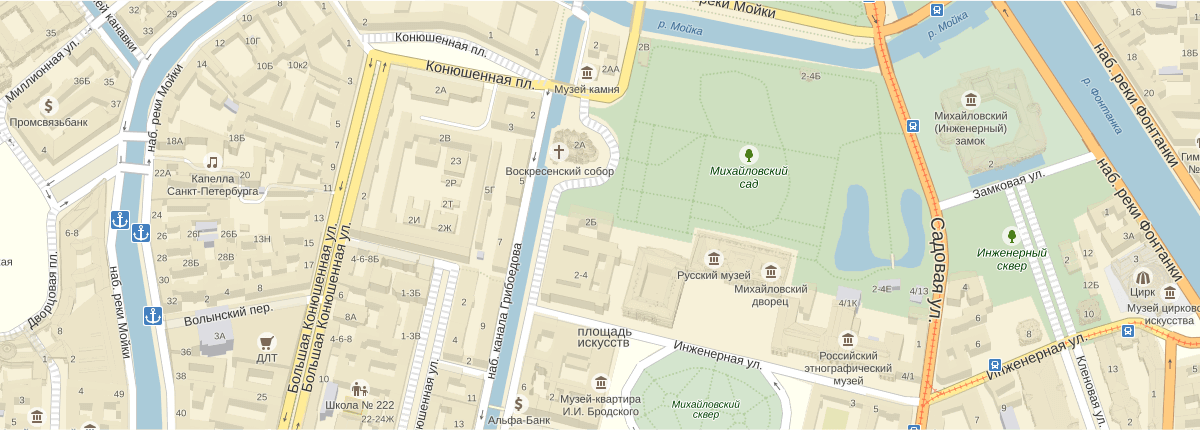
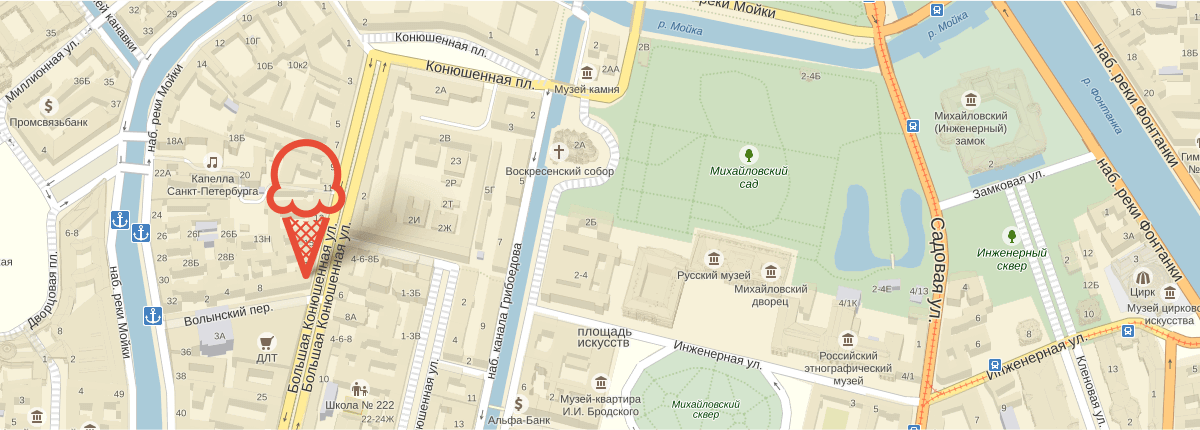
Добавляет разметку Главной страницы

Changed region(s): [[0.2158, 0.3023, 0.37, 0.6651], [0.74, 0.9977, 0.7708, 1.0]]

diff --git a/index.html b/index.html
@@ -1,12 +1,251 @@
 <!DOCTYPE html>
 <html lang="ru">
-  <head>
-    <meta charset="utf-8">
-    <title>HTML Academy: Глейси</title>
-  </head>
-  <body>
 
-    <p>Репозиторий создан для обучения на профессиональном онлайн‑курсе «<a href="https://htmlacademy.ru/intensive/htmlcss">HTML и CSS, уровень 1</a>».</p>
+<head>
+  <meta charset="utf-8">
+  <title>Gllacy - магазин мороженого</title>
+</head>
 
-  </body>
+<body>
+  <header>
+    <nav>
+      <a>
+        <img src="img/logo.svg" width="154" height="64" alt="Логотип интернет-магазина Gllacy">
+      </a>
+
+      <ul>
+        <li>
+          <a href="#!">Каталог</a>
+          <ul>
+            <li><a href="#!">Новинки</a></li>
+            <li><a href="catalog.html">Сливочное</a></li>
+            <li><a href="#!">Щербеты</a></li>
+            <li><a href="#!">Фруктовый лед</a></li>
+            <li><a href="#!">Мелорин</a></li>
+          </ul>
+        </li>
+        <li><a href="#!">Доставка и оплата</a></li>
+        <li><a href="#!">О Компании</a></li>
+      </ul>
+
+      <button>Поиск</button>
+      <form action="https://echo.htmlacademy.ru" method="get">
+        <label>
+          Поиск по сайту
+          <input type="search" name="search" placeholder="Крем-брюле">
+          <button type="submit">Найти</button>
+        </label>
+      </form>
+
+      <button>Вход</button>
+      <form action="https://echo.htmlacademy.ru" method="post">
+        <label>
+          Email
+          <input type="email" name="user-email" required>
+        </label>
+        <label>
+          Пароль
+          <input type="password" name="user-password" required>
+        </label>
+        <button type="submit">Войти</button>
+        <p>
+          <a href="#!">Забыли пароль?</a>
+          <a href="#!">Новая регистрация</a>
+        </p>
+      </form>
+
+      <button>Пусто</button>
+    </nav>
+  </header>
+
+  <main>
+    <h1>Gllacy - магазин мороженого</h1>
+
+    <section>
+      <h2>Популярное мороженое</h2>
+      <ul>
+        <li>
+          <h3>Крем-брюле и пломбир с малиновым джемом</h3>
+          <a href="#!">Давайте оба!</a>
+        </li>
+        <li>
+          <h3>Шоколадный пломбир и лимонный сорбет</h3>
+          <a href="#!">Давайте оба!</a>
+        </li>
+        <li>
+          <h3>Пломбир с помадкой и клубничный щербет</h3>
+          <a href="#!">Давайте оба!</a>
+        </li>
+      </ul>
+    </section>
+
+    <section>
+      <h2>Акции магазина</h2>
+      <article>
+        <h3>Малинка даром!</h3>
+        <p>При покупке 2 кг любого фруктового мороженого, добавим в ваш заказ банку малинового варенья бесплатно.</p>
+        <a href="#!">Хочу варенье!</a>
+      </article>
+      <article>
+        <h3>Шоколадки даром!</h3>
+        <p>При покупке 2 кг пломбира, добавим в ваш заказ упаковку вкуснейшей шоколадной присыпки совершенно бесплатно.</p>
+        <a href="#!">Хочу шоколадки!</a>
+      </article>
+    </section>
+
+    <section>
+      <h2>Хит продаж!</h2>
+      <ul>
+        <li>
+          <article>
+            <a href="#!">
+              <h3>Сливочное с апельсиновым джемом и цитрусовой стружкой</h3>
+            </a>
+            <p>
+              <img src="img/product-1.png" width="267" height="267" alt="Бело-желтое мороженое">
+            </p>
+            <p>
+              <span>310 ₽</span>
+              <span>/кг</span>
+            </p>
+            <button>Быстрый просмотр</button>
+          </article>
+        </li>
+        <li>
+          <article>
+            <a href="#!">
+              <h3>Сливочно-кофейное с кусочками шоколада</h3>
+            </a>
+            <p>
+              <img src="img/product-2.png" width="267" height="267" alt="Коричневое мороженое с шоколадной присыпкой">
+            </p>
+            <p>
+              <span>380 ₽</span>
+              <span>/кг</span>
+            </p>
+            <button>Быстрый просмотр</button>
+          </article>
+        </li>
+        <li>
+          <article>
+            <a href="#!">
+              <h3>Сливочно-клубничное с присыпкой из белого шоколада</h3>
+            </a>
+            <p>
+              <img src="img/product-3.png" width="267" height="267" alt="Розовое мороженое с присыпкой из сердечек">
+            </p>
+            <p>
+              <span>355 ₽</span>
+              <span>/кг</span>
+            </p>
+            <button>Быстрый просмотр</button>
+          </article>
+        </li>
+        <li>
+          <article>
+            <a href="#!">
+              <h3>Сливочное крем-брюле с карамельной подливкой</h3>
+            </a>
+            <p>
+              <img src="img/product-4.png" width="267" height="267" alt="Бежевое мороженое с карамелью">
+            </p>
+            <p>
+              <span>415 ₽</span>
+              <span>/кг</span>
+            </p>
+            <button>Быстрый просмотр</button>
+          </article>
+        </li>
+      </ul>
+    </section>
+
+    <section>
+      <h2>Магазин Глэйси — это онлайн- и офлайн-магазин по продаже мороженого собственного производства на развес</h2>
+      <ul>
+        <li>
+          <p>Все наше мороженое изготавливается на собственном производстве, с использованием современного оборудования и проверенных временем технологий.</p>
+        </li>
+        <li>
+          <p>Закупка ингредиентов  производится только у проверенных фермерских хозяйств и компаний, с которыми нас связывает долговременное сотрудничество.</p>
+        </li>
+        <li>
+          <p>Для приготовления мороженого используются настоящие сливки и молоко высочайшего качества. Все дополнительные ингредиенты и добавки произведены из натурального, экологически чистого сырья.</p>
+        </li>
+        <li>
+          <p>Доставка нашего мороженого до заказчиков осуществляется в специальном термопаке, который не дает мороженому растаять в пути и позволяет сохранить превосходный вкус.</p>
+        </li>
+      </ul>
+    </section>
+
+    <section>
+      <h2>Блог про наш магазин</h2>
+      <article>
+        <a href="#!">
+          <h3>Новое в нашем блоге</h3>
+          <p>10 способов сервировки фруктовых щербетов к столу</p>
+        </a>
+      </article>
+      <article>
+        <h3>Подписка на рассылку</h3>
+        <form action="https://echo.htmlacademy.ru" method="post">
+          <p>Подпишитесь на нашу сладкую рассылку и будете всегда в курсе всего самого вкусного, что у нас происходит. Обещаем не спамить и не слать всякой ненужной ерунды. Честно =)</p>
+          <label>
+            Ваш email
+            <input type="email" name="mailing-email" placeholder="email@example.com" required>
+          </label>
+          <button type="submit">Отправить</button>
+        </form>
+      </article>
+    </section>
+
+    <section>
+      <h2>Контактные данные</h2>
+      <p>
+        <img src="img/map-big.png" alt="Главный офис и офлайн-магазин по адресу: ул. Большая Конюшенная 19/8, Санкт-Петербург">
+      </p>
+      <address>
+        <p>
+          Адрес главного офиса и офлайн-магазина:
+          <b>ул. Большая Конюшенная 19/8, Санкт-Петербург</b>
+        </p>
+        <p>
+          Для заказов по телефону:
+          <b><a href="+78124502525">8 812 450-25-25</a></b>
+          (с 10 до 20 ежедневно)
+        </p>
+      </address>
+      <a href="#!">Форма обратной связи</a>
+    </section>
+  </main>
+
+  <footer>
+    <ul>
+      <li>
+        <a href="https://twitter.com/" target="_blank">Наш twitter</a>
+      </li>
+      <li>
+        <a href="https://instagram.com/" target="_blank">Наш instagram</a>
+      </li>
+      <li>
+        <a href="https://facebook.com/" target="_blank">Наш facebook</a>
+      </li>
+      <li>
+        <a href="https://vk.com/" target="_blank">Наш вконтакте</a>
+      </li>
+    </ul>
+
+    <ul>
+      <li><a href="#!">Для поставщиков</a></li>
+      <li><a href="#!">Наши документы</a></li>
+      <li><a href="#!">О производстве</a></li>
+      <li><a href="#!">Экологические стандарты</a></li>
+    </ul>
+
+    <p>
+      <a href="https://htmlacademy.ru/intensive/htmlcss">Логотип HTML Academy</a>
+      <span>Сделано в <a href="https://htmlacademy.ru/intensive/htmlcss" target="_blank">HTML Academy</a> &copy; 2019</span>
+    </p>
+  </footer>
+
+</body>
 </html>
